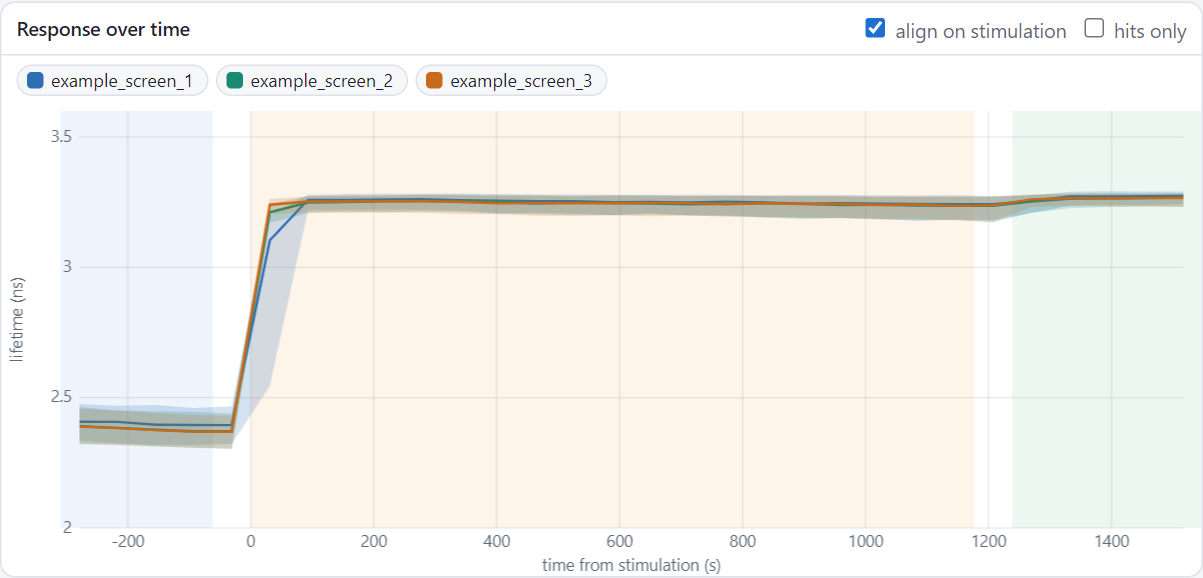
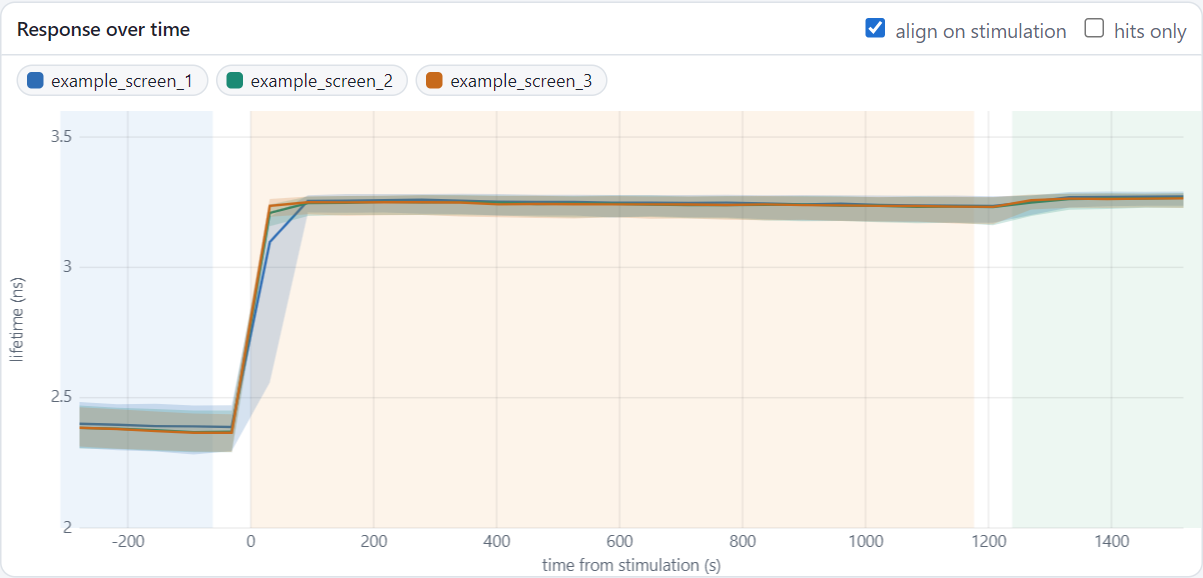
Dashboard views as settings (display.traces_view, scatter_x/y with log); example screen: criteria response_max_abs < 3.1 AND baseline_mean 2.0-2.7, gate calibration - baseline 0.5-1.2, baseline gate off, full-resolution demo
Manual: walk-through, choosing the hits, demo and home page updated to the new example (75 hits, 64 with the knock-out marker); screenshots retaken (scatter and distribution at frame 15); quality gates now mentioned in the walk-through; first Cellpose run downloads its model.

Changed region(s): [[0.2153, 0.3114, 0.9842, 0.436], [0.0615, 0.6851, 0.2153, 0.8097]]

diff --git a/src/fast_hippos/templates/dashboard/core.js b/src/fast_hippos/templates/dashboard/core.js
@@ -22,8 +22,8 @@ const S = {
   frame: 0, hover: -1, sel: new Set(), lastClicked: -1, playing: false,
   lut: D.display.lut, dmin: D.display.min, dmax: D.display.max, bright: Math.pow(10, 0.2),
   isrc: "movie", outl: "all", tsrc: SCR.params.smooth_traces > 0 ? "smoothed" : "raw",
-  show: "all", tcol: D.screening.enabled ? "hit" : "cell", tmode: N > 300 ? "bands" : "lines",
-  ksort: "@response", kdesc: false, kzoom: 1, kstart: 0, rows: "all", sortCol: null, sortDir: 1, sx: "mean_intensity", sy: "@value", slogx: false, slogy: false, sclass: false, hlog: false,
+  show: "all", tcol: D.screening.enabled ? "hit" : "cell", tmode: ["lines", "bands", "density"].includes(D.display.traces) ? D.display.traces : N > 300 ? "bands" : "lines",
+  ksort: "@response", kdesc: false, kzoom: 1, kstart: 0, rows: "all", sortCol: null, sortDir: 1, sx: D.display.sx || "mean_intensity", sy: D.display.sy || "@value", slogx: !!D.display.slogx, slogy: !!D.display.slogy, sclass: false, hlog: false,
   tool: "rect", showRoute: false, fillMetric: "",
 };
 const K = () => (S.tsrc === "smoothed" ? KS : KR);

diff --git a/src/fast_hippos/gui.py b/src/fast_hippos/gui.py
@@ -54,6 +54,11 @@ SETTINGS_NAME = "fast_hippos_settings.toml"
 TCSPC = {"input.modality": ["tcspc"]}
 CELLPOSE = {"segmentation.method": ["cellpose"]}
 SCREEN = {"screening.enabled": [True]}
+# what the scatter plot of the dashboard can show on an axis
+SCATTER_AXES = {"value_at_frame": "lifetime (or ratio) at the current frame",
+                "additional_at_frame": "additional channel at the current frame",
+                "mean_intensity": "mean_intensity", "area_px": "area_px", "circularity": "circularity",
+                **{k: k for k in METRICS}}
 
 # label, help, level ("basic" or "advanced"), optional: widget, choices, show (field -> allowed values).
 # Settings that are not listed here are shown in the advanced tab with a generated label.
@@ -136,6 +141,12 @@ FIELDS: dict[str, dict] = {
     "display.dashboard_tiles": {"label": "Full-resolution tiles for large images"},
     "display.save_png_plots": {"label": "Save PNG plots"},
     "display.save_tables": {"label": "Save per-frame trace tables"},
+    "display.traces_view": {"label": "Traces", "choices": {"auto": "automatic (lines up to 300 cells, else bands)",
+                                                            "lines": "lines", "bands": "bands", "density": "density"}},
+    "display.scatter_x": {"label": "Scatter plot: x", "choices": SCATTER_AXES},
+    "display.scatter_log_x": {"label": "Scatter plot: log x"},
+    "display.scatter_y": {"label": "Scatter plot: y", "choices": SCATTER_AXES},
+    "display.scatter_log_y": {"label": "Scatter plot: log y"},
     # ---- events
     "events.stimulation_frame": {"label": "Stimulation frame", "widget": "frame",
         "help": "First frame with the stimulus (0-based). Empty = detect automatically"},
@@ -297,6 +308,14 @@ TIPS: dict[str, str] = {
         "in. Takes extra disk space (folder 'tiles').",
     "display.save_png_plots": "Also save the plots (traces, kymographs, histograms) as PNG images.",
     "display.save_tables": "Save tables with the value of every cell in every frame (TSV, opens in Excel).",
+    "display.traces_view": "How the Traces panel of the dashboards starts: every cell its own line, the median with "
+        "percentile bands, or a density map. Automatic: lines up to 300 cells, bands for more. Can be changed in the "
+        "dashboard, which remembers it.",
+    "display.scatter_x": "The value on the horizontal axis of the scatter plot when a dashboard opens (it can be "
+        "changed there). 'at frame' values follow the current frame.",
+    "display.scatter_log_x": "Start the scatter plot with a logarithmic horizontal axis, e.g. for intensities.",
+    "display.scatter_y": "The value on the vertical axis of the scatter plot when a dashboard opens.",
+    "display.scatter_log_y": "Start the scatter plot with a logarithmic vertical axis.",
     # ---- stimulation and calibration
     "events.stimulation_frame": "First frame in which the stimulus acts (0-based). The frames before it are the "
         "baseline. Empty = found automatically as the first clear jump in the average trace.",
@@ -407,6 +426,8 @@ LAYOUT = [
          ("Lifetime overlay", ["display.overlay_smooth_xy", "display.overlay_smooth_t"]),
          ("Dashboard", ["display.dashboard", "display.dashboard_max_size", "display.dashboard_max_megapixels",
                         "display.dashboard_tiles", "display.histogram_bins"]),
+         ("Dashboard views", ["display.traces_view", "display.scatter_x", "display.scatter_log_x", "display.scatter_y",
+                              "display.scatter_log_y"]),
          ("Files", ["display.save_png_plots", "display.save_tables"]),
      ]},
 ]
@@ -437,6 +458,8 @@ ENABLE = {
     "display.dashboard_max_size": {"display.dashboard": [True]},
     "display.dashboard_max_megapixels": {"display.dashboard": [True]},
     "display.dashboard_tiles": {"display.dashboard": [True]},
+    **{f"display.{k}": {"display.dashboard": [True]} for k in ("traces_view", "scatter_x", "scatter_log_x", "scatter_y",
+                                                              "scatter_log_y")},
     "display.histogram_bins": {"display.dashboard": [True]},
 }
 REASONS = {  # why a condition on this field disables others

diff --git a/src/fast_hippos/dashboard.py b/src/fast_hippos/dashboard.py
@@ -122,6 +122,14 @@ def _dashboard_template() -> str:
     return _bundle("dashboard", ["style.css"], DASHBOARD_JS)
 
 
+SCATTER_AT_FRAME = {"value_at_frame": "@value", "additional_at_frame": "@additional"}
+
+
+def _axis(name: str) -> str:
+    """A scatter axis of the settings as the dashboard names it (value_at_frame -> @value)."""
+    return SCATTER_AT_FRAME.get(name, name)
+
+
 def build_image_data(result: ImageResult, viewer: ViewerData, settings: Settings, route=None) -> dict:
     ev = result.events
     sc = settings.screening
@@ -145,7 +153,11 @@ def build_image_data(result: ImageResult, viewer: ViewerData, settings: Settings
         "pixel_size": result.pixel_size,
         "image_size": [w, h],
         "display": {"min": dmin, "max": dmax, "lut": settings.display.lut if settings.display.lut in LUTS else "turbo",
-                    "bins": settings.display.histogram_bins},
+                    "bins": settings.display.histogram_bins,
+                    # how the views start: the trace view, the axes of the scatter plot
+                    "traces": settings.display.traces_view,
+                    "sx": _axis(settings.display.scatter_x), "sy": _axis(settings.display.scatter_y),
+                    "slogx": settings.display.scatter_log_x, "slogy": settings.display.scatter_log_y},
         "smooth_traces": settings.display.smooth_traces,
         "viewer": {
             "factor": viewer.factor,

diff --git a/tools/manual/screenshots.py b/tools/manual/screenshots.py
@@ -79,10 +79,13 @@ def dashboard_shots(page: Page, base: str, out: Path, want) -> None:
     for name, title in (("dash_image", "Image"), ("dash_traces", "Traces"), ("dash_kymograph", "Kymograph"),
                         ("dash_distribution", "Distribution"), ("dash_scatter", "Scatter"), ("dash_cells", "Cells")):
         if want(name):
+            # the distribution and the scatter plot during the response, where the low responders stand apart
+            page.evaluate(f"setFrame({15 if name in ('dash_distribution', 'dash_scatter') else 0})")
             p = panel(page, title)
             p.scroll_into_view_if_needed()
             page.wait_for_timeout(500)
             save(p, name)
+    page.evaluate("setFrame(0)")
     if want("dash_cell"):  # the cell card of a hit, as when the mouse is over it
         page.mouse.move(0, 0)
         page.evaluate("$('selhits').click(); const i = [...S.sel][0]; $('clearsel').click(); setHover(i)")

diff --git a/tools/manual/make_demo.py b/tools/manual/make_demo.py
@@ -1,7 +1,6 @@
-"""The live demo of the manual: the overview and the dashboards of the example run, copied into manual/demo (not in
-git, ~25 MB) and zipped as manual-demo.zip for the release with the example data, from which the site build takes it.
-Run the example with small dashboards and without tiles (demo/example.toml: dashboard_max_size = 700,
-dashboard_tiles = false).
+"""The live demo of the manual: the overview and the dashboards of the example run (example.toml), copied into
+manual/demo (not in git, ~75 MB) and zipped as manual-demo.zip for the release with the example data, from which the
+site build takes it. The example images (1000 x 700 px) fit in the dashboards at full resolution, without tiles.
 
     python tools/manual/make_demo.py <output folder of the demo run> [zip file]
 """

diff --git a/src/fast_hippos/config.py b/src/fast_hippos/config.py
@@ -108,6 +108,12 @@ class DisplaySettings:
     dashboard_tiles: bool = True  # larger images: full-resolution tiles loaded on zoom (folder 'tiles')
     save_png_plots: bool = True
     save_tables: bool = True  # per-frame trace tables (TSV)
+    # how the dashboards start (each dashboard remembers what is changed in it)
+    traces_view: str = "auto"  # auto (lines up to 300 cells, else bands), lines, bands, density
+    scatter_x: str = "mean_intensity"  # a cell value, or value_at_frame / additional_at_frame
+    scatter_log_x: bool = False
+    scatter_y: str = "value_at_frame"
+    scatter_log_y: bool = False
 
 
 @dataclass

diff --git a/manual/start/first-analysis.md b/manual/start/first-analysis.md
@@ -98,14 +98,27 @@ of all cells. You can always correct them later, in the dashboard.
 </figure>
 
 1. Tick **Screen for hits**.
-2. Click **+ criterion**, choose `response_mean_diff`, **<** and **0.6**. `response_mean_diff` is the average rise of
-   the lifetime after the stimulation, compared with the cell's own baseline (hover over the name for its meaning).
-   Cells that rise less than 0.6 ns become hits. Don't worry about the exact value: you will
-   [fine-tune it in the dashboard](../guide/choosing-hits.md), while you watch the hits change.
-3. Tick **Classify cells on the additional channel**: the cells are split into marker-positive and negative cells.
+2. Click **+ criterion** twice, and set the two criteria (both **AND**: a hit must meet both):
+    - `response_max_abs` **<** **3.1**: the highest lifetime of the cell after the isoproterenol stays below 3.1 ns.
+      Wild-type cells saturate the sensor at about 3.25 ns; cells that stay lower respond weakly.
+    - `baseline_mean` **between** **2.0** and **2.7**: a normal baseline, which leaves out odd cells.
 
-For this example, the images have no stage positions of their own, so open *Advanced settings* of the Screening card
-and choose `stage_positions.txt` as *Stage positions file*. With your own LAS X data this is not needed.
+    Hover over a name for its meaning. Don't worry about the exact values: you will
+    [fine-tune them in the dashboard](../guide/choosing-hits.md), while you watch the hits change.
+3. Tick **Classify cells on the additional channel**: the cells are split into marker-positive and negative cells.
+4. Open *Advanced settings* of the Screening card. Under *Quality gates*, set *Gate: calibration − baseline* to
+   **0.5** and **1.2**: every hit must still respond to the forskolin calibration, so that it has a working sensor.
+   Empty *Gate: \|baseline − population\| ≤*: this gate is then off (the baseline criterion does its job).
+
+A cell is a hit when it meets the criteria **and** passes the quality gates; see
+[Choosing the hits](../guide/choosing-hits.md).
+
+For this example, the images have no stage positions of their own, so also choose `stage_positions.txt` as *Stage
+positions file* (under *Stage positions and .rgn files*). With your own LAS X data this is not needed.
+
+!!! tip "The dashboard views of this example"
+    `example_settings.toml` also sets how the dashboards start (*Display and output → Advanced settings → Dashboard
+    views*): every trace as a line, and a scatter plot of the marker intensity (log scale) against the lifetime.
 
 ## 6. Run
 
@@ -118,7 +131,8 @@ in red and disable the button; warnings in orange point out surprises. When it s
 **▶ Run analysis**.
 
 The log shows what happens per image: the number of cells, the frames where the stimulation and calibration were
-found, the number of hits. With a GPU this takes about a minute for the three images.
+found, the number of hits. With a GPU this takes about a minute for the three images. The very first time, Cellpose
+first downloads its model (internet needed), which adds a minute.
 
 When it is done, the buttons under *Results in the output folder* open the results:
 
@@ -131,8 +145,8 @@ Open the dashboard of `example_screen_1`.
 
 <figure markdown>
 ![The dashboard](../images/dashboard_views.png){ .shot }
-<figcaption>The 13 hits of example_screen_1 are outlined in pink. Their median trace (pink) rises much less than that
-of the other cells (grey).</figcaption>
+<figcaption>The 24 hits of example_screen_1 are outlined in pink. Their traces (pink) rise much less after the
+isoproterenol than those of the other cells (grey), but do respond to the forskolin calibration.</figcaption>
 </figure>
 
 Things to try:
@@ -141,14 +155,25 @@ Things to try:
   down shows its trace and why it is, or is not, a hit.
 - Click **Select hits** and then **Zoom to selection**.
 - Press ++space++ to play the time-lapse.
-- In the *Screening* pane at the top, drag the threshold of the criterion (the black marker on the histogram): the
-  hits change at once, everywhere.
+- In the *Screening* pane at the top, drag the threshold of a criterion (the black marker on its
+  histogram): the hits change at once, everywhere.
+- Go to frame 15 and look at the *Scatter* plot: the hits (pink) are the cells with a bright marker and a low
+  lifetime.
 
-Then open the overview, to compare the three images and see where the hits are.
+<figure markdown>
+![The scatter plot at frame 15](../images/dash_scatter.png){ .shot width="520" }
+<figcaption>Frame 15: marker intensity (log scale) against lifetime. Most hits (pink) carry the marker of the
+knock-out cells.</figcaption>
+</figure>
+
+Then open the overview, to compare the three images and see where the hits are. Of the 75 hits of the run, 64
+carry the marker: they are indeed knock-out cells. The other marker-positive cells are knock-out cells that still
+respond (the knock-out is polyclonal, so not every cell lost the receptor completely).
 
 ## 8. To the microscope
 
-The output folder now holds `HITS_example_run_1-29.rgn`: the stage positions of the 29 hits, in an efficient
+The output folder now holds `HITS_example_run_1-75.rgn`: the stage positions of the 75 hits (24, 28 and 23 in the
+three images), in an efficient
 visiting order. Load it in the LAS X Navigator (right-click → *Load regions*) to revisit the cells; see
 [back to the microscope](../guide/microscope.md).
 

diff --git a/manual/reference/settings.md b/manual/reference/settings.md
@@ -196,6 +196,15 @@ Every setting of the FAST-HIPPOS window, in the order of the window: first the s
 <tr data-search="histogram bins display.histogram_bins number of bars in the histograms of the dashboard."><td><b>Histogram bins</b><br><code class="fh-key">display.histogram_bins</code></td><td>Number of bars in the histograms of the dashboard.</td><td>50</td></tr>
 </tbody></table>
 
+<h3 class="fh-group">Advanced: Dashboard views</h3>
+<table class="fh-settings"><thead><tr><th>Setting</th><th>What it does</th><th>Default</th></tr></thead><tbody>
+<tr data-search="traces display.traces_view how the traces panel of the dashboards starts: every cell its own line, the median with percentile bands, or a density map. automatic: lines up to 300 cells, bands for more. can be changed in the dashboard, which remembers it."><td><b>Traces</b><br><code class="fh-key">display.traces_view</code></td><td>How the Traces panel of the dashboards starts: every cell its own line, the median with percentile bands, or a density map. Automatic: lines up to 300 cells, bands for more. Can be changed in the dashboard, which remembers it.<br><span class="fh-choices"><code>auto</code> automatic (lines up to 300 cells, else bands) · <code>lines</code> lines · <code>bands</code> bands · <code>density</code> density</span></td><td>auto</td></tr>
+<tr data-search="scatter plot: x display.scatter_x the value on the horizontal axis of the scatter plot when a dashboard opens (it can be changed there). &#x27;at frame&#x27; values follow the current frame."><td><b>Scatter plot: x</b><br><code class="fh-key">display.scatter_x</code></td><td>The value on the horizontal axis of the scatter plot when a dashboard opens (it can be changed there). &#x27;at frame&#x27; values follow the current frame.<br><span class="fh-choices"><code>value_at_frame</code> lifetime (or ratio) at the current frame · <code>additional_at_frame</code> additional channel at the current frame · <code>mean_intensity</code> mean_intensity · <code>area_px</code> area_px · <code>circularity</code> circularity · <code>baseline_mean</code> baseline_mean · <code>response_mean_abs</code> response_mean_abs · <code>response_mean_diff</code> response_mean_diff · <code>response_fraction</code> response_fraction · <code>response_max_abs</code> response_max_abs · <code>response_max_diff</code> response_max_diff · <code>response_max_diff_pop</code> response_max_diff_pop · <code>rise_time_frames</code> rise_time_frames · <code>rapid_response_ratio</code> rapid_response_ratio · <code>calibration_mean</code> calibration_mean · <code>calibration_diff</code> calibration_diff · <code>baseline_dev_pop</code> baseline_dev_pop · <code>additional_intensity</code> additional_intensity</span></td><td>mean_intensity</td></tr>
+<tr data-search="scatter plot: log x display.scatter_log_x start the scatter plot with a logarithmic horizontal axis, e.g. for intensities."><td><b>Scatter plot: log x</b><br><code class="fh-key">display.scatter_log_x</code></td><td>Start the scatter plot with a logarithmic horizontal axis, e.g. for intensities.</td><td>off</td></tr>
+<tr data-search="scatter plot: y display.scatter_y the value on the vertical axis of the scatter plot when a dashboard opens."><td><b>Scatter plot: y</b><br><code class="fh-key">display.scatter_y</code></td><td>The value on the vertical axis of the scatter plot when a dashboard opens.<br><span class="fh-choices"><code>value_at_frame</code> lifetime (or ratio) at the current frame · <code>additional_at_frame</code> additional channel at the current frame · <code>mean_intensity</code> mean_intensity · <code>area_px</code> area_px · <code>circularity</code> circularity · <code>baseline_mean</code> baseline_mean · <code>response_mean_abs</code> response_mean_abs · <code>response_mean_diff</code> response_mean_diff · <code>response_fraction</code> response_fraction · <code>response_max_abs</code> response_max_abs · <code>response_max_diff</code> response_max_diff · <code>response_max_diff_pop</code> response_max_diff_pop · <code>rise_time_frames</code> rise_time_frames · <code>rapid_response_ratio</code> rapid_response_ratio · <code>calibration_mean</code> calibration_mean · <code>calibration_diff</code> calibration_diff · <code>baseline_dev_pop</code> baseline_dev_pop · <code>additional_intensity</code> additional_intensity</span></td><td>value_at_frame</td></tr>
+<tr data-search="scatter plot: log y display.scatter_log_y start the scatter plot with a logarithmic vertical axis."><td><b>Scatter plot: log y</b><br><code class="fh-key">display.scatter_log_y</code></td><td>Start the scatter plot with a logarithmic vertical axis.</td><td>off</td></tr>
+</tbody></table>
+
 <h3 class="fh-group">Advanced: Files</h3>
 <table class="fh-settings"><thead><tr><th>Setting</th><th>What it does</th><th>Default</th></tr></thead><tbody>
 <tr data-search="save png plots display.save_png_plots also save the plots (traces, kymographs, histograms) as png images."><td><b>Save PNG plots</b><br><code class="fh-key">display.save_png_plots</code></td><td>Also save the plots (traces, kymographs, histograms) as PNG images.</td><td>on</td></tr>

diff --git a/manual/guide/choosing-hits.md b/manual/guide/choosing-hits.md
@@ -68,7 +68,7 @@ class (*ch+* or *ch−*) is shown per cell, and can be used in criteria and in t
 </figure>
 
 Each criterion is a cell value, *<*, *>* or *between* (↔), and a threshold. The histogram shows the value over all
-cells, with the passing cells in pink, and *28 pass* counts them. Drag the black marker to change the threshold.
+cells, with the passing cells in pink, and *… pass* counts them. Drag the black marker to change the threshold.
 
 - **+ criterion** adds a criterion. Hover over a value in the list for its meaning, or see
   [Cell values](../reference/metrics.md).
@@ -79,11 +79,12 @@ cells, with the passing cells in pink, and *28 pass* counts them. Drag the black
 
 !!! example "In the example"
     The [example screen](../start/first-analysis.md#what-the-experiment-is-about) looks for ADRB2 knock-out cells
-    among wild-type cells: cells that hardly respond to isoproterenol. So the criterion is `response_mean_diff`
-    **<** 0.6: an average rise of the lifetime of less than 0.6 ns, where most cells rise by about 0.85 ns. The
-    knock-out cells carry a marker (the additional channel), so here you can check the criterion: in the scatter
-    plot of `response_mean_diff` against `additional_intensity`, most hits are marker-positive, and the
-    marker-positive cells that are not hits are knock-out cells that still respond.
+    among wild-type cells: cells that hardly respond to isoproterenol. Wild-type cells saturate the sensor at about
+    3.25 ns, so the criteria are `response_max_abs` **<** 3.1 (the lifetime stays low) **AND** `baseline_mean`
+    **between** 2.0 and 2.7 (a normal baseline). The gate *calibration − baseline* (0.5–1.2 ns) makes sure that
+    every hit still responds to the forskolin calibration; the *|baseline − population|* gate is off. The knock-out
+    cells carry a marker (the additional channel), so here you can check the result: in the scatter plot of
+    `additional_intensity` (log) against the lifetime during the response, 64 of the 75 hits are marker-positive.
 
 **Hits from *selection*.** Instead of criteria, you can also pick the hits by hand: select cells (click, lasso,
 table), switch *Hits from* to *selection* and click *Use selection*. *Add selection* adds more cells.

diff --git a/manual/start/demo.md b/manual/start/demo.md
@@ -6,10 +6,11 @@ hide: [navigation, toc]
 
 These are the real results of the [example analysis](first-analysis.md): the overview of the run and the dashboards
 of its three images, exactly as FAST-HIPPOS writes them. They run completely in your browser; nothing is installed or
-uploaded. (For a quick download, the images in the dashboards have a lower resolution than in a normal run.)
+uploaded. Each dashboard holds the full images (about 25 MB), so it may take a few seconds to load.
 
 The experiment: Cos7 cells with the cAMP sensor EpacH250, with about 5 % ADRB2 knock-out cells among them, are
 stimulated with isoproterenol; the hits are the cells that hardly respond, i.e. most likely the knock-out cells.
+Go to frame 15 in a dashboard and look at the scatter plot: most hits carry the marker of the knock-out cells.
 See [what the experiment is about](first-analysis.md#what-the-experiment-is-about).
 
 === "Overview of the run"

diff --git a/manual/guide/output-folder.md b/manual/guide/output-folder.md
@@ -9,9 +9,9 @@ run**: the images analyzed together, with one combined hit list.
 example_run/
 ├── index.html                 the run overview
 ├── HITS_example_run.rgn       stage positions of all hits
-├── HITS_example_run_1-29.rgn  … in files of at most 1000 positions, each with its route
+├── HITS_example_run_1-75.rgn  … in files of at most 1000 positions, each with its route
 ├── hits.tsv                   the hit list
-├── hits_1-29.tsv              … per .rgn file, in visiting order
+├── hits_1-75.tsv              … per .rgn file, in visiting order
 ├── cell_coordinates.tsv       positions of all cells
 ├── run_summary.tsv            the images table of the overview
 ├── run_log.txt                the log

diff --git a/manual/index.md b/manual/index.md
@@ -24,8 +24,8 @@ look at them.
 
 <figure markdown>
 ![The dashboard of an image](images/dashboard_views.png){ .shot }
-<figcaption>The dashboard of one image: 675 cells, coloured by their lifetime. The 13 hits (outlined in pink) are the
-cells that barely respond to the stimulation; their median trace is the pink curve.</figcaption>
+<figcaption>The dashboard of one image: 675 cells, coloured by their lifetime. The 24 hits (outlined in pink) are the
+cells that barely respond to the stimulation; their traces are pink.</figcaption>
 </figure>
 
 ## How it works
